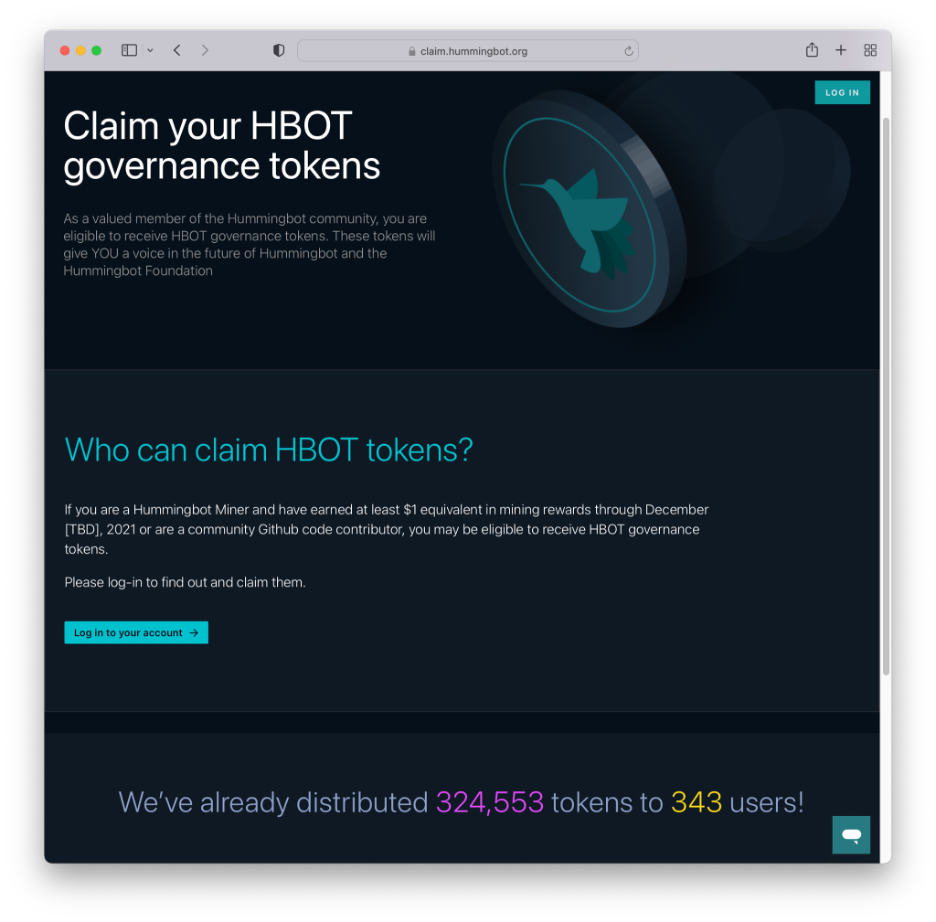
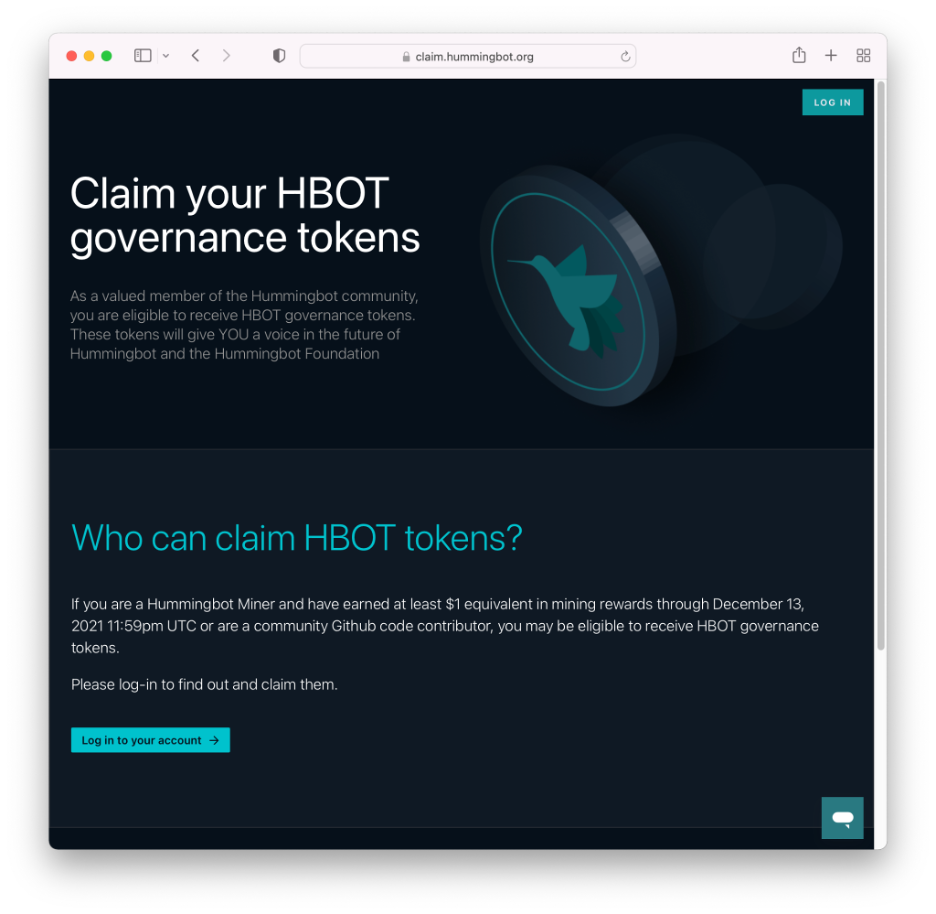
updates to announcement post

diff --git a/docs/news/hbot.md b/docs/news/hbot.md
@@ -13,17 +13,17 @@ As announced in [this October post](https://hummingbot.io/en/blog/hummingbot-fou
 
 Like our spiritual predecessor the Linux Foundation, we believe that community maintenance is key to scaling Hummingbot to every exchange and blockchain and enabling traders to build any type of bot.
 
-An initial interim Board of Directors has been appointed, comprising of five directors:
+An initial interim Board of Directors has been appointed, comprised of five directors:
 
 * Michael Feng – CEO, CoinAlpha, Inc.
 * Brett Gibson – Partner, Initialized Capital and CoinAlpha, Inc. Director
-* Arthur Cheong – Partner, Defiance Capital
+* Arthur Cheong – Partner, DeFiance Capital
 * Gene Cheon – CFO, Hummingbot Foundation
 * Howard Chu – Hummingbot user and Eagle Club member
 
-To retain independence, Foundation bylaws stipulate that no more than two CoinAlpha officers can be members of the Board of Directors. The Board provides oversight staff who oversee day-to-day operations of the Foundation. Initially, the Foundation will employ 8 staff members: COO, CFO, engineering, project management, QA, and community support.
+To retain independence, Foundation bylaws stipulate that no more than two officers or directors of an outside entity can be members of the Board of Directors. The Board oversees staff who handle the day-to-day operations of the Foundation. Initially, the Foundation will employ 8 staff members who handle: a COO, a CFO, an engineering lead, 1 product manager, 1 project manager, 2 community managers, and 1 quality assurance analyst.
 
-The Foundation’s mission is to democratize high-frequency trading by enabling decentralized maintenance and community governance over the open-source Hummingbot code repository. **We have transferred control over the official Hummingbot code repository to a Foundation-owned Github organization, and the new repo URL is: https://github.com/hummingbot/hummingbot**.
+The Foundation’s mission is to democratize high-frequency trading by enabling decentralized maintenance and community governance over the open source Hummingbot code repository. **CoinAlpha has transferred control over the official Hummingbot code repository to a Foundation-owned Github organization, and the new repo URL is: https://github.com/hummingbot/hummingbot**.
 
 The official Foundation website, which also includes the Hummingbot documentation, is deployed at https://hummingbot.org. It is also a community-maintained open source repository: https://github.com/hummingbot/hummingbot-site.
 
@@ -55,7 +55,7 @@ The Hummingbot Governance Token (HBOT) has been deployed to the Ethereum blockch
 
 The HBOT token is a standard ERC-20 token.  It has a fixed total supply so there will never be any additional HBOT tokens created.
 
-The sole use case for HBOT Tokens will be to empower holders to decide how the Hummingbot codebase changes over time through voting on three types of proposals:
+The HBOT Token has no monetary or economic value. The sole use case for HBOT Tokens will be to empower holders to decide how the Hummingbot codebase changes over time through voting on three types of proposals:
 
 * **Pull Request Proposals (PRP)**: a proposal linked to an open pull request in the Hummingbot code repository;
 * **Improvement Proposals (IP)**: a proposal linked to an issue in the Hummingbot Github repository that specifies a proposed improvement to a component of the Hummingbot codebase, and;
@@ -63,7 +63,7 @@ The sole use case for HBOT Tokens will be to empower holders to decide how the H
 
 All pull requests, or proposed code changes to the Github code repository, will need to be submitted as a Pull Request Proposal and be approved by HBOT holders in order to be merged into the codebase and included in an official release. 
 
-See the [Hummingbot Foundation Governance whitepaper](https://hummingbot.org/governance/whitepaper) for more details.
+See the [Hummingbot Foundation Governance whitepaper](/governance/whitepaper) for more details.
 
 In addition, HBOT token holders will be able to appoint members of the Hummingbot Foundation’s Board of Directors.  One of the first planned Governance Proposals (Q1 2022) will allow HBOT token holders to confirm the members of the interim Board of Directors or otherwise appoint an alternative Board.
 
@@ -72,7 +72,6 @@ HBOT token holders do not have any financial rights or any claims to the assets 
 ## HBOT Token Distribution
 
 The goal of the HBOT distribution plan is to disseminate HBOT tokens into the hands of stewards who have the long-term goal of expanding the Hummingbot project.  With this in mind, the Hummingbot Foundation has authorized the distribution of HBOT tokens and future plans as follows:
-
 
 | **HBOT Distribution (Total Supply = 1,000,000,000**)  |  |  |
 |:-------------------------------|-------:|-----------------:|
@@ -85,9 +84,6 @@ The goal of the HBOT distribution plan is to disseminate HBOT tokens into the ha
 | **Hummingbot Foundation Team** |   **1.0%** | **10,000,000**   |
 | **CoinAlpha Investors**        |  **37.9%** | **370,923,556**   |
 | **CoinAlpha Team**             |  **21.1%** | **210,766,444**   |
-
-
-
 
 We believe that this distribution plan ensures that existing stakeholders, who have been involved in the Hummingbot development process, have experience with the software and codebase, and have expertise in related fields to market-making bots (in trading, markets, and software development) will have a say in the future governance of Hummingbot.  Meanwhile, future code contributors will also be engaged and have the opportunity to participate in Hummingbot governance.
 
@@ -130,7 +126,7 @@ The Hummingbot Foundation’s initial plan is to release an equal amount of the 
 
 ### CoinAlpha Investors (37.9%)
 
-CoinAlpha’s investors have played a key role in supporting the creation and development of the Hummingbot code base. The Hummingbot codebase originated as the proprietary software stack for a quantitative hedge fund operated by CoinAlpha from 2017-2018. Afterwards, CoinAlpha investors supported the decision to modularize and streamline the codebase in order to enable community contribution starting in April 2019, as well as the subsequent 2 ½ years of operation and development as an open source project. As such, the Hummingbot codebase represents substantial intellectual property value that is being transferred from CoinAlpha to the Hummingbot Foundation.
+CoinAlpha’s investors have played a key role in supporting the creation and development of the Hummingbot codebase. The Hummingbot codebase originated as the proprietary software stack for a quantitative hedge fund operated by CoinAlpha from 2017-2018. Afterwards, CoinAlpha investors supported the decision to modularize and streamline the codebase in order to enable community contribution starting in April 2019, as well as the subsequent 2 ½ years of operation and development as an open source project. As such, the Hummingbot codebase represents substantial intellectual property value that is being transferred from CoinAlpha to the Hummingbot Foundation.
 
 CoinAlpha’s equity holders represents a diverse group of angel investors, crypto funds, and traditional venture capital firms.  As such, the Foundation values their guidance, input, and continued involvement with the Hummingbot open source project going forward, and the Foundation expects to continue to benefit from the active participation of this constituency.
 
@@ -157,9 +153,51 @@ The historical HBOT token distribution process will run for approximately two an
 
 Afterwards, any unclaimed tokens will revert to the Hummingbot Foundation and will be added to the Year 1 Reserve.
 
-## Claim Site
+### Claim Site
 
 The only official site where recipients can claim tokens is located at https://claim.hummingbot.org (the “Claim Site”). Please make sure that your browser is loading this URL before using the site. 
 
 After login, the Claim Site will display a user’s token allocation (if any), and users will be able to input an Ethereum wallet address where they would like to receive their HBOT tokens.
 
+![](/assets/img/hbot-claim-site.png)
+
+### How to Access the Claim Site
+
+#### Github code contributors
+
+Github users who are eligible to claim HBOT tokens will be added to a private Hummingbot Foundation Github repository: HBOT github airdrop.  This private repository will provide eligible code contributors with instructions on how to confirm their email address or provide an alternative email address that they would like to use for the claim process. Afterwards, a user login will be created for Github code contributors on the Claim Site.
+
+#### Hummingbot Miner users
+
+Users of Hummingbot Miner who are eligible to claim tokens can visit the Claim Site and log in with their Miner credentials.
+
+### Weekly Distributions
+
+The Hummingbot Foundation expects to distribute tokens to Github code contributors and Hummingbot Miner users who have submitted valid Ethereum wallet addresses in weekly distributions. For administrative purposes, the HBOT token claim period will be divided into weekly periods. Users who have claimed tokens and inputted their Ethereum wallet addresses will receive the tokens during the subsequent week.
+
+For example:
+
+* **Initial weekly claim period**: December 17, 2021 00:00 UTC to December 24, 2021 00:00 UTC
+* **Initial distribution window**: Between December 24, 2021 00:00 UTC and December 31, 2021 00:00 UTC
+
+The first distributions of tokens will occur during the initial distribution window for users who claimed tokens in the initial weekly claim period. This process will repeat weekly throughout the entire claim period through the end of February 2021.
+
+The Hummingbot Foundation plans to maintain some flexibility on the precise timing for distributing tokens to account for, among other things, prevailing Ethereum gas prices.  Users will be notified by email when their respective HBOT tokens have been distributed to them.
+
+## Governance Process
+
+### Snapshot
+
+The Hummingbot Foundation plans to use [Snapshot](https://snapshot.org/) as the primary governance system for all proposals. Voting is expected to commence in mid-to-late January 2022 with the Hummingbot 1.0 release. All proposals and voting can be found on the official Hummingbot Snapshot hosted at https://snapshot.org/#/hbot.eth.
+
+See the [Hummingbot Foundation Governance](/governance/whitepaper) whitepaper for additional details about the governance process, such as proposal types, minim token balance requirements, and quorum/approval thresholds.
+
+### Voting Delegation
+
+HBOT token holders may delegate their votes to other members of the Hummingbot community by enabling delegation at [Snapshot Delegate](https://snapshot.org/#/delegate). In order to limit delegation to the HBOT tokens and Hummingbot Foundation matters (and exclude delegation for other tokens you may own that also vote on Snapshot), make sure to enter `hbot.eth` in the Space field.
+
+Users who have delegated their tokens can still override any delegation by directly voting their tokens. Voting outright always overrides any delegation. As the Hummingbot Foundation becomes firmly established and community participation increases, HBOT token holders in the future may choose to propose to disable voting by delegation, thereby allocating greater voting power toward community members who vote outright only.
+
+HBOT tokens allocated to CoinAlpha investors and team members are locked up in `TokenVesting` smart contracts that enforce a 1-year token lockup period followed by a straight-line release schedule.  For investors, tokens have a 1-year linear release schedule in year 2, whereas for team members and service providers, the tokens have a 3-year linear release schedule between years 2 to 4.  In order to allow for investors and team members to participate in governance voting, these `TokenVesting` contracts are enabled for delegation, permitting locked tokens to be voted by a delegate during the applicable lockup period.
+
+In the future, however, HBOT token holders may choose to propose to disable or limit voting delegation, as community members may see fit.

diff --git a/docs/maintenance.md b/docs/maintenance.md
@@ -20,20 +20,24 @@ Certain exchanges and protocols act as **Sponsors** and have contractual agreeme
 
 ### Active agreements
 
-| Connector                               | Type      | Amount  | Maintainer | 
-|-----------------------------------------|-----------| ------- | ---------- |
-| [AscendEx](/exchanges/ascendex)         | fee share | 40%     | CoinAlpha  |
-| [Binance.com](/exchanges/binance)       | fee share | 30%     | CoinAlpha  |
-| [BitMart](/exchanges/bitmart)           | fee share | 45%     | [srirambandi](https://github.com/srirambandi)|
-| [CoinZoom](/exchanges/coinzoom)         | fee share | 40%     | [TheHolyRoger](https://github.com/TheHolyRoger)|
-| [Digifinex](/exchanges/digifinex)       | fee share | 30%     |            |
-| [KuCoin](/exchanges/kucoin)             | fee share | 30%     | CoinAlpha  |
-| [Gate.io](/exchanges/ascendex)          | fee share | 20%     | CoinAlpha  |
-| [HitBTC](/exchanges/hitbtc)             | fee share | 40%     | [TheHolyRoger](https://github.com/TheHolyRoger)|
-| [Huobi](/exchanges/huobi)               | fee share | 40%     |            |
-| [OkEx](/exchanges/okex)                 | fee share | 40%     |            |
-| [ProBit](/exchanges/probit)             | fee share | 30%     |            |
-| [NDAX](/exchanges/ndax)                 | monthly pmt| $500   |            |
+| Connector                               | Type      | Amount  | Developer  | Maintainer  |
+|-----------------------------------------|-----------| ------- | ---------- | ----------- |
+| [AscendEx](/exchanges/ascendex)         | fee share | 40%     | CoinAlpha  | CoinAlpha   |
+| [Binance.com](/exchanges/binance)       | fee share | 30%     | CoinAlpha  | CoinAlpha   |
+| [Bitfinex](/exchanges/bitfinex)         | fee share | 30%     | [nionis](https://github.com/nionis) |   |
+| [BitMart](/exchanges/bitmart)           | fee share | 45%     | [srirambandi](https://github.com/srirambandi) |   |
+| [ByBit Perpetual](/exchanges/bybit-perpetual) | fee share | 20-30% | CoinAlpha | CoinAlpha |
+| [CoinZoom](/exchanges/coinzoom)         | fee share | 40%     | [TheHolyRoger](https://github.com/TheHolyRoger) |   |
+| [Crypto.com](/exchanges/crypto-com)     | fee share | 25%     | CoinAlpha  |             |
+| [Digifinex](/exchanges/digifinex)       | fee share | 30%     | [msr888](https://github.com/msr888) | |
+| [Gate.io](/exchanges/ascendex)          | fee share | 20%     | [TheHolyRoger](https://github.com/TheHolyRoger) | CoinAlpha |
+| [Himalaya](/exchanges/himalaya)         | monthly fee | $750  | CoinAlpha  |             |
+| [HitBTC](/exchanges/hitbtc)             | fee share | 40%     | [TheHolyRoger](https://github.com/TheHolyRoger) |   |
+| [Huobi](/exchanges/huobi)               | fee share | 30-40%  | CoinAlpha  | CoinAlpha   |
+| [KuCoin](/exchanges/kucoin)             | fee share | 30%     | CoinAlpha  | CoinAlpha   |
+| [OkEx](/exchanges/okex)                 | fee share | 40%     | CoinAlpha  | CoinAlpha   |
+| [NDAX](/exchanges/ndax)                 | monthly fee| $500   | CoinAlpha  |             |
+| [ProBit](/exchanges/probit)             | fee share | 30%     | CoinAlpha  | CoinAlpha   |
 
 ## Bounties, grants, and hackathons
 
@@ -62,7 +66,7 @@ The winning [`hedge`](/strategies/hedge/) strategy was merged in version [0.45.0
 * **Start date**: May 3, 2021
 * **End date**: May 23, 2021
 * **Total prize amount**: $5,000 (including tips)
-* **Winners post**: https://hummingbot.io/blog/2021-05-opendefi-hackathon-hummingbot-bounty-winner/
+* **Winners**: https://hummingbot.io/blog/2021-05-opendefi-hackathon-hummingbot-bounty-winner/
 
 | Contributor                                        | Contribution                                               | Bounty   | Amount     |
 |----------------------------------------------------|------------------------------------------------------------|--------- | ---------- |

diff --git a/docs/governance/hbot.md b/docs/governance/hbot.md
@@ -19,13 +19,19 @@ The historical HBOT token distribution process will run during the following per
 
 The official Claim Site where recipients can claim HBOT tokens is located at https://claim.hummingbot.org. Please make sure that your browser is loading this URL before using the site. 
 
-### Github code contributors
+For administrative purposes, the HBOT token claim period will be divided into weekly periods. Users who have claimed tokens and inputted their Ethereum wallet addresses will receive the tokens during the subsequent week.
+
+The first distributions of tokens will occur during the initial distribution window for users who claimed tokens in the initial weekly claim period. This process will repeat weekly throughout the entire claim period through the end of February 2021.
+
+The Hummingbot Foundation plans to maintain some flexibility on the precise timing for distributing tokens to account for, among other things, prevailing Ethereum gas prices.  Users will be notified by email when their respective HBOT tokens have been distributed to them.
+
+#### Github code contributors
 
 Github code contributors eligible to claim HBOT tokens have been added to a private Hummingbot Foundation Github repository: https://github.com/hummingbot/claim-hbot-tokens. If you can access the repository with your Github login, then you are eligible to claim tokens.
 
 The repository provides eligible code contributors with instructions on how to confirm their email address or provide an alternative email address that they would like to use for the claim process. Afterwards, a user login will be created for Github code contributors on the Claim Site.
 
-### Hummingbot Miner users
+#### Hummingbot Miner users
 
 Users who have earned at least USD 1 equivalent in liquidity rewards on Hummingbot Miner are eligible to claim tokens can visit the Claim Site and log in with their Hummingbot Miner credentials.
 

diff --git a/docs/about.md b/docs/about.md
@@ -53,7 +53,7 @@ The current board members are:
 
 Hummingbot is the leading open source software for building market making and arbitrage bots. Launched in April 2019, Hummingbot served the cryptocurrency market’s need for liquidity by enabling anyone to become a liquidity provider. Because Hummingbot pioneered a modular architecture that allowed external developers to contribute new exchange connectors and trading strategies, it has scaled into a bazaar-style open source project with many contributors and users around the world, both individual and professional.
 
-Hummingbot was originally built and opensourced by CoinAlpha, Inc, a startup based in Mountain View, California. CoinAlpha is backed by [Initialized Capital](https://initialized.com/), [Bain Capital Ventures](https://www.baincapitalventures.com/), [Defiance Capital](https://www.defiance.capital/), and other leading crypto and fintech investors.
+Hummingbot was originally built and open sourced by CoinAlpha Inc, a startup based in Mountain View, California. CoinAlpha is backed by [Initialized Capital](https://initialized.com/), [Bain Capital Ventures](https://www.baincapitalventures.com/), [DeFiance Capital](https://www.defiance.capital/), and other leading crypto and fintech investors.
 
 CoinAlpha runs businesses that support the Hummingbot ecosystem, such as:
 
